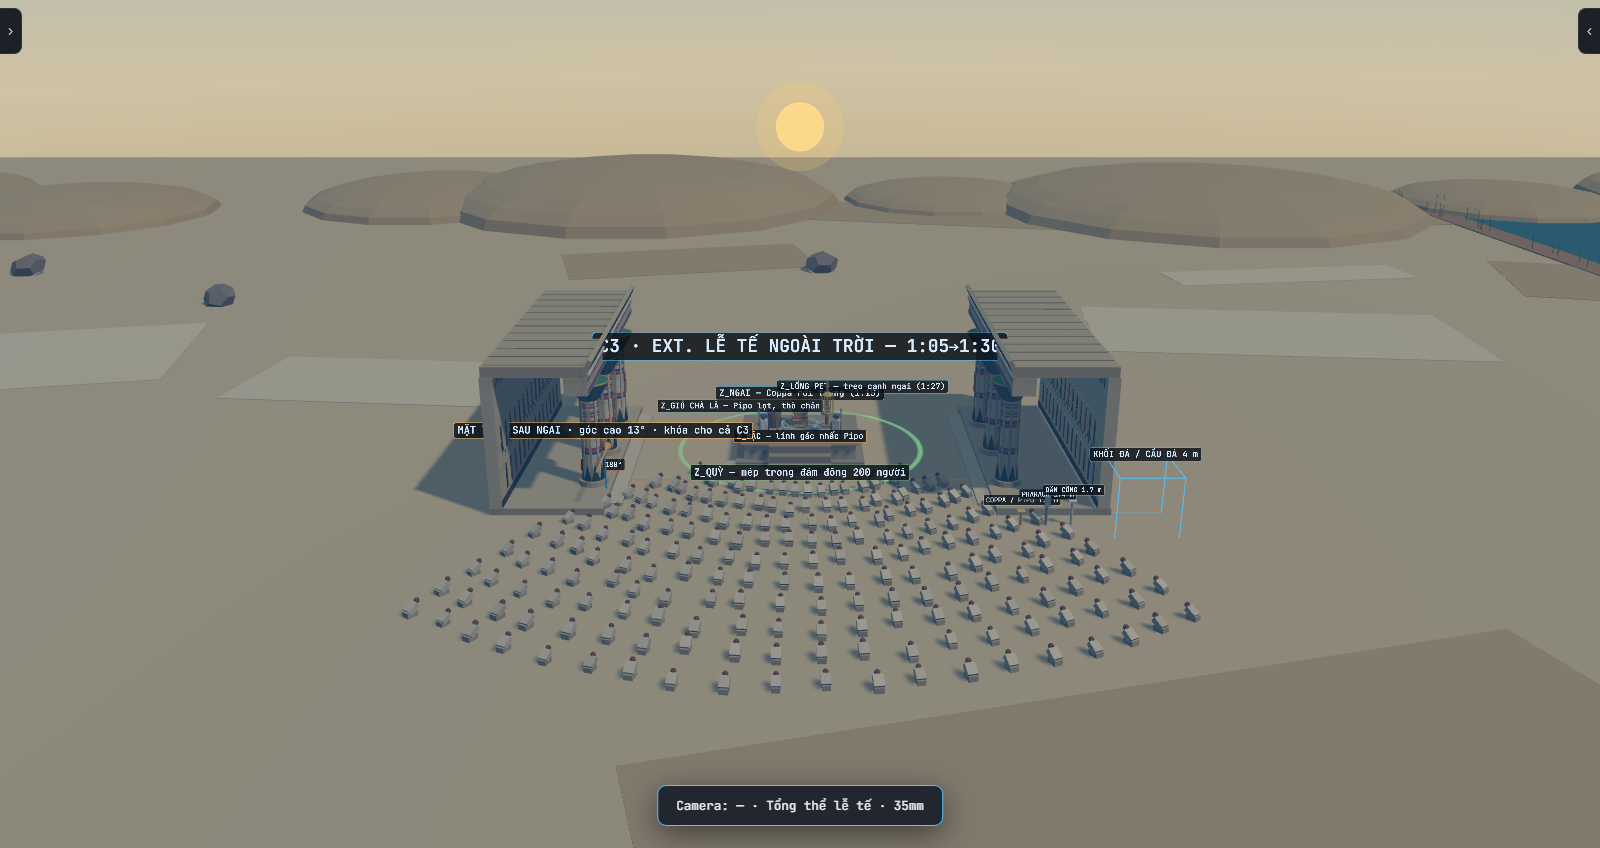
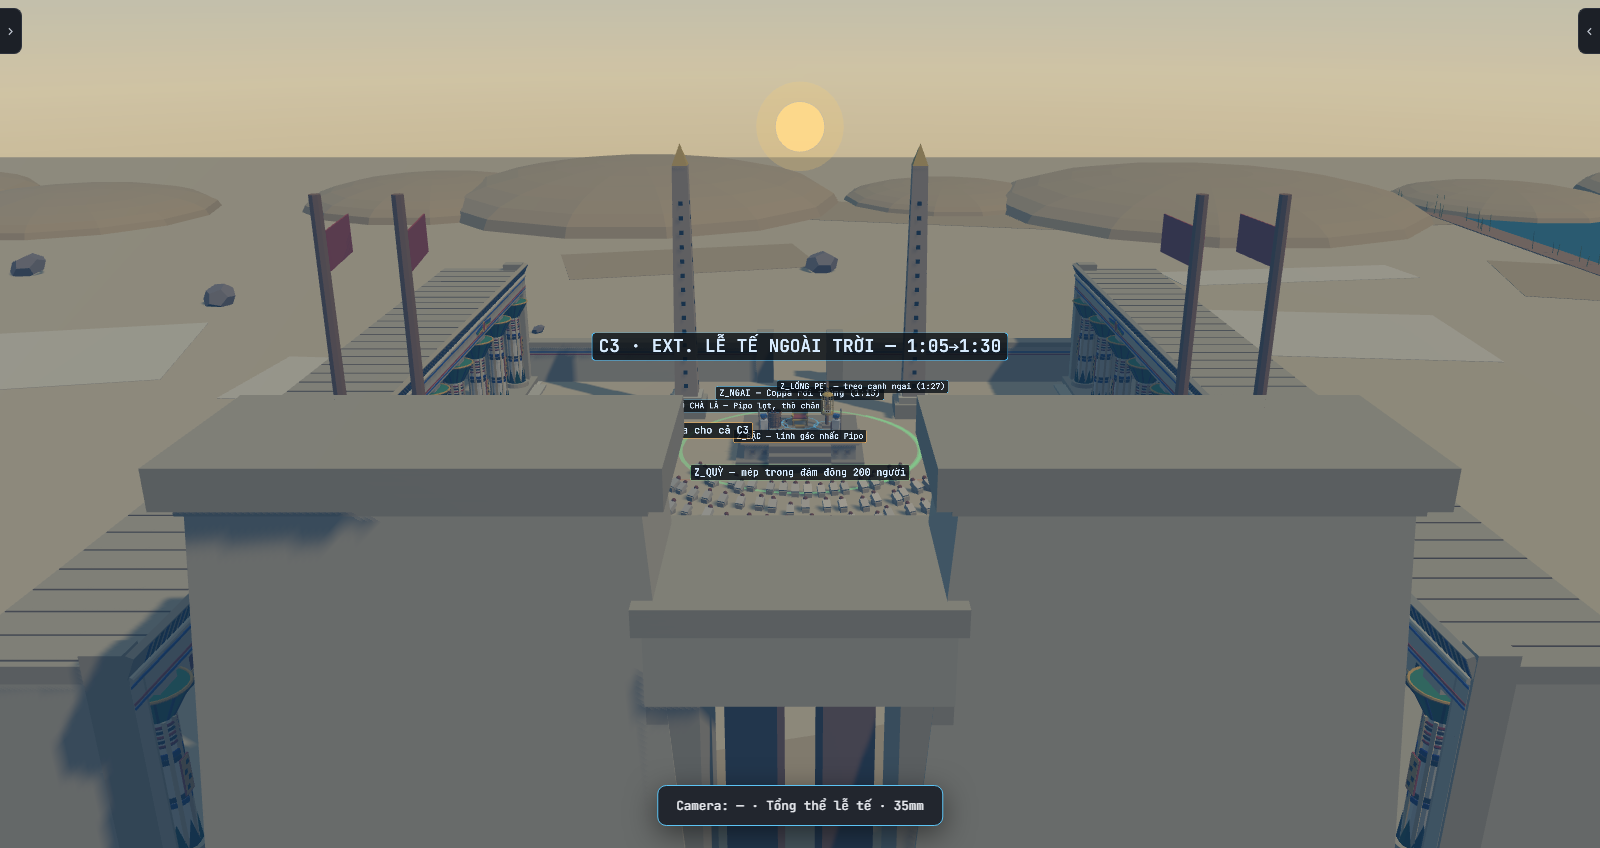
C3: san den khep kin - 2 hanh lang 11 cot 64 m bit dau, cong thap pylon, 2 obelisk kep mat troi, tuong thap sau san

diff --git a/jenny-pixel-studio.html b/jenny-pixel-studio.html
@@ -3119,119 +3119,179 @@ function instParts(geo,items,defColor,basic){
 const PT_Y0=.5, PT_SHAFT=5.6, PT_CAP=1.3;            // nền 0.5 · thân 5.6 · đầu cột 1.3
 const PT_TOP=PT_Y0+.35+PT_SHAFT+PT_CAP+.35;          // mặt khối đỡ = chân dầm (8.1 m)
 function papyrusColumn(){
+  // mỗi loại chi tiết lặp gom thành 1 InstancedMesh → ~13 lệnh vẽ/cột (hành lang 11 cột vẫn nhẹ)
   const c=new THREE.Group();
   const y0=PT_Y0, ys=y0+.35, yc=ys+PT_SHAFT;
-  // chân cột: trống đá tròn thấp
   const base=cyl(.98,1.02,.35,PT.stone2,20);base.position.y=y0+.175;c.add(base);
-  // thân: bó thân cói — lõi thon + 8 sống dọc
   const core=cyl(.56,.66,PT_SHAFT,PT.cream,16);core.position.y=ys+PT_SHAFT/2;c.add(core);
   const ribs=[];for(let k=0;k<8;k++){const a=k/8*Math.PI*2;ribs.push({p:[Math.cos(a)*.6,ys+PT_SHAFT/2,Math.sin(a)*.6],r:[0,-a,0],c:k%2?PT.cream:PT.stone});}
   c.add(instParts(new THREE.BoxGeometry(.16,PT_SHAFT,.16),ribs,PT.cream));
-  // bẹ lá nhọn ôm chân thân (nét đặc trưng cột papyrus), sơn xanh lá / xanh lam
   const sep=[];for(let k=0;k<8;k++){const a=(k+.5)/8*Math.PI*2;sep.push({p:[Math.cos(a)*.7,ys+.6,Math.sin(a)*.7],r:[0,-a+Math.PI/2,0],s:[1,1,.28],c:k%2?PT.green:PT.blue});}
   c.add(instParts(new THREE.ConeGeometry(.3,1.2,4),sep,PT.green));
-  // dải màu buộc bó cói: 2 dải giữa thân + 5 vòng dưới đầu cột
-  [[ys+2.0,PT.blue],[ys+2.25,PT.red],[ys+3.9,PT.red],[ys+4.15,PT.blue]].forEach(([y,col])=>{const b=cyl(.67,.67,.2,col,18);b.position.y=y;c.add(b);});
-  [PT.red,PT.blue,PT.ochre,PT.blue,PT.red].forEach((col,k)=>{const t=torus3(.6,.06,col,18);t.position.y=yc-.22-k*.2;c.add(t);});
-  // ô cartouche hướng ra sân (+X): khung vàng viền đỏ + chữ tượng hình
+  c.add(instParts(new THREE.CylinderGeometry(.67,.67,.2,18),
+    [[ys+2.0,PT.blue],[ys+2.25,PT.red],[ys+3.9,PT.red],[ys+4.15,PT.blue]].map(([y,col])=>({p:[0,y,0],c:col})),PT.blue));
+  c.add(instParts(new THREE.TorusGeometry(.6,.06,6,18),
+    [PT.red,PT.blue,PT.ochre,PT.blue,PT.red].map((col,k)=>({p:[0,yc-.22-k*.2,0],r:[Math.PI/2,0,0],c:col})),PT.red));
   const cart=new THREE.Group();cart.position.set(.69,ys+3.05,0);
-  const cf=box(.06,1.5,.56,PT.ochre);cart.add(cf);
+  cart.add(box(.06,1.5,.56,PT.ochre));
   const cr=box(.07,1.56,.62,PT.red);cr.position.x=-.01;cart.add(cr);
-  const gl=[];for(let k=0;k<4;k++)gl.push({p:[.04,.5-k*.33,(k%2?.1:-.1)],c:PT.dark});
-  cart.add(instParts(new THREE.BoxGeometry(.03,.18,.18),gl,PT.dark));
+  cart.add(instParts(new THREE.BoxGeometry(.03,.18,.18),[0,1,2,3].map(k=>({p:[.04,.5-k*.33,(k%2?.1:-.1)],c:PT.dark})),PT.dark));
   c.add(cart);
-  // ĐẦU CỘT papyrus NỞ LOE (hình chuông): xanh lá, gân sơn xanh lam/đỏ, vành vàng
   const bell=cyl(1.38,.6,PT_CAP,PT.green,20);bell.position.y=yc+PT_CAP/2;c.add(bell);
-  // gân sơn nghiêng theo độ loe của chuông
-  const veinG=new THREE.Group();
-  for(let k=0;k<12;k++){
-    const a=k/12*Math.PI*2;
-    const rib=box(.07,PT_CAP*1.08,.1,k%2?PT.blue:PT.red);
-    const arm=new THREE.Group();arm.rotation.y=-a;
-    rib.position.set(.99,0,0);rib.rotation.z=-Math.atan2(.78,PT_CAP);arm.add(rib);
-    arm.position.y=yc+PT_CAP/2;veinG.add(arm);
-  }
-  c.add(veinG);
+  const tilt=Math.atan2(.78,PT_CAP);                   // gân sơn nghiêng theo độ loe của chuông
+  c.add(instParts(new THREE.BoxGeometry(.07,PT_CAP*1.08,.1),
+    Array.from({length:12},(_,k)=>{const a=k/12*Math.PI*2;return{p:[.99*Math.cos(a),yc+PT_CAP/2,.99*Math.sin(a)],r:[0,-a,-tilt],c:k%2?PT.blue:PT.red};}),PT.blue));
   const rim=torus3(1.36,.07,PT.ochre,26);rim.position.y=yc+PT_CAP-.02;c.add(rim);
-  // khối đỡ vuông (abacus) — dầm gác lên đây
   const ab=box(1.3,.35,1.3,PT.stone);ab.position.y=yc+PT_CAP+.175;c.add(ab);
   return c;
 }
+// Hành lang cột chạy DÀI SUỐT một bên sân: 11 cột cách 6 m, dài 64 m, BỊT KÍN HAI ĐẦU.
 function buildColumnRow(){
   const g=new THREE.Group();
-  const Zs=[-6,0,6],L=20;
+  const N=11,SP=6,L=(N-1)*SP+4;
+  const Zs=Array.from({length:N},(_,k)=>(k-(N-1)/2)*SP);
   const sub=label=>{const s2=new THREE.Group();s2.userData.partLabel=label;g.add(s2);return s2;};
   const R=rnd(307);
+  const AH=1.2, ay=PT_TOP, ry0=ay+AH, RX0=-5.9, RX1=.76, RW=RX1-RX0, WX=-5.6;
 
-  // 1. NỀN hành lang (stylobate) + bậc xuống sân
   const base=sub('Nền hành lang + bậc xuống sân');
   base.add(bx(7.4,PT_Y0,L+1,PT.stone2,-2.4,0,0));
   base.add(bx(1.0,PT_Y0*.5,L-2,PT.stone,1.8,0,0));
 
-  // 2. BA CỘT papyrus
-  Zs.forEach((z,k)=>{const c=sub('Cột papyrus '+(k+1)+' (sơn màu)');const col=papyrusColumn();c.add(col);c.position.z=z;});
+  const cols=sub('Hàng '+N+' cột papyrus (sơn màu)');
+  Zs.forEach((z,k)=>{const c=papyrusColumn();c.position.z=z;c.userData.partLabel='Cột papyrus '+(k+1);cols.add(c);});
 
-  // 3. DẦM ĐÁ nối đầu cột + dải sơn + ĐĨA MẶT TRỜI CÓ CÁNH ở giữa, mặt hướng ra sân
   const arch=sub('Dầm đá + đĩa mặt trời có cánh');
-  const AH=1.2, ay=PT_TOP;
   arch.add(bx(1.5,AH,L+1,PT.stone,0,ay,0));
   [[ay+.2,PT.blue],[ay+.36,PT.red],[ay+AH-.16,PT.blue]].forEach(([y,col])=>{const st=box(.04,.1,L+1,col);st.position.set(.77,y,0);arch.add(st);});
-  const sun=new THREE.Group();sun.position.set(.8,ay+AH*.55,0);
-  const disc=gmesh(new THREE.CylinderGeometry(.34,.34,.08,20),PT.red);disc.rotation.z=Math.PI/2;sun.add(disc);
-  const discRim=torus3(.36,.05,PT.ochre,20);discRim.rotation.set(0,Math.PI/2,0);sun.add(discRim);
-  [-1,1].forEach(sd=>{
-    for(let k=0;k<3;k++){
-      const w=box(.05,.14,1.9-k*.35,[PT.blue,PT.green,PT.ochre][k]);
-      w.position.set(0,.14-k*.14,sd*(1.25-k*.1));w.rotation.x=sd*.08;sun.add(w);
-    }
-    const ur=cone(.07,.34,PT.ochre,6);ur.position.set(.02,-.1,sd*.42);sun.add(ur);   // rắn uraeus hai bên đĩa
+  // đĩa mặt trời có cánh lặp mỗi 3 nhịp cột
+  [-(SP*3),0,SP*3].forEach(zc=>{
+    const sun=new THREE.Group();sun.position.set(.8,ay+AH*.55,zc);
+    const disc=gmesh(new THREE.CylinderGeometry(.34,.34,.08,20),PT.red);disc.rotation.z=Math.PI/2;sun.add(disc);
+    const dr=torus3(.36,.05,PT.ochre,20);dr.rotation.set(0,Math.PI/2,0);sun.add(dr);
+    [-1,1].forEach(sd=>{for(let k=0;k<3;k++){const w=box(.05,.14,1.9-k*.35,[PT.blue,PT.green,PT.ochre][k]);w.position.set(0,.14-k*.14,sd*(1.25-k*.1));w.rotation.x=sd*.08;sun.add(w);}
+      const ur=cone(.07,.34,PT.ochre,6);ur.position.set(.02,-.1,sd*.42);sun.add(ur);});
+    arch.add(sun);
   });
-  arch.add(sun);
 
-  // 4. GỜ CORNICE LÕM kiểu Ai Cập: gờ tròn (torus) + mái hắt nghiêng ra, sơn sọc lá dọc
   const corn=sub('Gờ cornice lõm (sọc lá)');
-  const torus=cyl(.14,.14,L+1,PT.stone,10);torus.rotation.x=Math.PI/2;torus.position.set(.78,ay+AH+.12,0);corn.add(torus);
-  const lip=new THREE.Group();lip.position.set(.6,ay+AH+.24,0);lip.rotation.z=-.42;
+  const tor=cyl(.14,.14,L+1,PT.stone,10);tor.rotation.x=Math.PI/2;tor.position.set(.78,ry0+.12,0);corn.add(tor);
+  const lip=new THREE.Group();lip.position.set(.6,ry0+.24,0);lip.rotation.z=-.42;
   lip.add(bx(.3,.95,L+1.2,PT.stone2,0,0,0));
   const leaf=[];for(let k=0;k<Math.round(L*2.4);k++)leaf.push({p:[.16,.48,-L/2-.4+k/2.4],c:[PT.blue,PT.red,PT.green][k%3]});
   lip.add(instParts(new THREE.BoxGeometry(.02,.8,.22),leaf,PT.blue));
   corn.add(lip);
 
-  // 5. MÁI ĐÁ PHẲNG: tấm lát từ dầm vào tường sau; TRẦN sơn xanh rắc SAO VÀNG (nhìn từ dưới lên)
   const roof=sub('Mái đá phẳng + trần sao');
-  const RX0=-5.9,RX1=.76,RW=RX1-RX0,ry0=ay+AH;
   roof.add(bx(RW,.7,L+1,PT.stone2,(RX0+RX1)/2,ry0,0));
-  const slabs=[];for(let k=0;k<11;k++)slabs.push({p:[(RX0+RX1)/2,ry0+.71,-L/2+(k+.5)*(L+1)/11],c:k%2?PT.stone3:PT.stone2});
-  roof.add(instParts(new THREE.BoxGeometry(RW-.1,.03,.08),slabs,PT.stone3));   // ron giữa các tấm
+  const nSlab=Math.round(L/1.8);
+  roof.add(instParts(new THREE.BoxGeometry(RW-.1,.03,.08),Array.from({length:nSlab},(_,k)=>({p:[(RX0+RX1)/2,ry0+.71,-L/2+(k+.5)*(L+1)/nSlab],c:PT.stone3})),PT.stone3));
   const ceil=new THREE.Mesh(new THREE.PlaneGeometry(RW-1.6,L+.6),new THREE.MeshBasicMaterial({color:'#24468e',side:THREE.DoubleSide}));
   ceil.rotation.x=Math.PI/2;ceil.position.set((RX0+RX1)/2-.4,ry0-.02,0);roof.add(ceil);
-  const stars=[];for(let k=0;k<70;k++)stars.push({p:[RX0+.9+R()*(RW-2.4),ry0-.035,-L/2+.4+R()*(L-.4)],r:[0,R()*3,0],c:PT.ochre});
+  const stars=[];for(let k=0;k<Math.round(L*3.5);k++)stars.push({p:[RX0+.9+R()*(RW-2.4),ry0-.035,-L/2+.4+R()*(L-.4)],r:[0,R()*3,0],c:PT.ochre});
   roof.add(instParts(new THREE.BoxGeometry(.22,.01,.22),stars,PT.ochre,true));
-  roof.add(instParts(new THREE.BoxGeometry(.22,.01,.22),stars.map(t=>({p:t.p,r:[0,(t.r[1]||0)+.785,0],c:PT.ochre})),PT.ochre,true));   // hai ô vuông chéo = sao 8 cánh   // hai ô vuông chéo = sao 8 cánh
+  roof.add(instParts(new THREE.BoxGeometry(.22,.01,.22),stars.map(t=>({p:t.p,r:[0,t.r[1]+.785,0],c:PT.ochre})),PT.ochre,true));
 
-  // 6. TƯỜNG SAU (phía ngoài) + PHÙ ĐIÊU sơn màu mặt hướng vào hành lang
   const wall=sub('Tường sau + phù điêu');
-  const WX=-5.6,WH=ry0-PT_Y0;
+  const WH=ry0-PT_Y0;
   wall.add(bx(.8,WH,L+1,PT.stone,WX,PT_Y0,0));
-  // chân tường sơn đen-vàng, diềm "kheker" trên đỉnh
   wall.add(bx(.04,.5,L+1,PT.dark,WX+.42,PT_Y0,0));
-  const kh=[];for(let k=0;k<Math.round(L*2);k++)kh.push({p:[WX+.43,ry0-.55,-L/2+.25+k/2],c:k%2?PT.ochre:PT.blue});
-  wall.add(instParts(new THREE.BoxGeometry(.03,.6,.2),kh,PT.ochre));
-  // hai tầng phù điêu: đoàn người dâng lễ (dáng đứng cao gầy) + hàng chữ tượng hình
-  const fig=[];
-  for(let row=0;row<2;row++)for(let k=0;k<14;k++){
-    const z=-L/2+1.2+k*1.35+(row?.6:0), y=PT_Y0+1.5+row*2.7;
-    fig.push({p:[WX+.43,y,z],s:[1,1,1],c:[PT.red,PT.blue,PT.green,PT.ochre][(k+row)%4]});
-  }
+  wall.add(instParts(new THREE.BoxGeometry(.03,.6,.2),Array.from({length:Math.round(L*2)},(_,k)=>({p:[WX+.43,ry0-.55,-L/2+.25+k/2],c:k%2?PT.ochre:PT.blue})),PT.ochre));
+  const fig=[];const nFig=Math.round(L/1.35)-1;
+  for(let row=0;row<2;row++)for(let k=0;k<nFig;k++)fig.push({p:[WX+.43,PT_Y0+1.5+row*2.7,-L/2+1.2+k*1.35+(row?.6:0)],c:[PT.red,PT.blue,PT.green,PT.ochre][(k+row)%4]});
   wall.add(instParts(new THREE.BoxGeometry(.03,1.4,.34),fig,PT.red));
-  const heads=fig.map(f=>({p:[f.p[0],f.p[1]+.86,f.p[2]],c:PT.dark}));
-  wall.add(instParts(new THREE.BoxGeometry(.03,.26,.22),heads,PT.dark));
-  const hier=[];for(let k=0;k<44;k++)hier.push({p:[WX+.43,PT_Y0+3.3+(k%2)*.3,-L/2+.6+k*.43],c:PT.dark});
-  wall.add(instParts(new THREE.BoxGeometry(.03,.18,.18),hier,PT.dark));
-  // vạch tầng phù điêu
+  wall.add(instParts(new THREE.BoxGeometry(.03,.26,.22),fig.map(f=>({p:[f.p[0],f.p[1]+.86,f.p[2]],c:PT.dark})),PT.dark));
+  wall.add(instParts(new THREE.BoxGeometry(.03,.18,.18),Array.from({length:Math.round(L*2.2)},(_,k)=>({p:[WX+.43,PT_Y0+3.3+(k%2)*.3,-L/2+.6+k*.43],c:PT.dark})),PT.dark));
   [PT_Y0+.72,PT_Y0+2.6,PT_Y0+4.2,PT_Y0+5.4].forEach(y=>{const ln=box(.03,.06,L+1,PT.ochre);ln.position.set(WX+.43,y,0);wall.add(ln);});
 
+  // TƯỜNG BỊT HAI ĐẦU: hết cảnh "nhà chờ xe buýt" hở hai đầu
+  const ends=sub('Tường bịt hai đầu hành lang');
+  [-1,1].forEach(sd=>{
+    ends.add(bx(RW,WH,.8,PT.stone,(RX0+RX1)/2,PT_Y0,sd*(L/2+.1)));
+    const pil=box(1.5,WH+AH,1.1,PT.stone2);pil.position.set(0,PT_Y0+(WH+AH)/2,sd*(L/2+.1));ends.add(pil);   // trụ đầu hồi
+  });
   g.userData.h=ry0+.9;
+  return g;
+}
+
+/* ── hộp vát (thân tháp pylon / obelisk): đáy wb×db, đỉnh wt×dt, cao h ── */
+function frustumBox(wb,db,wt,dt,h,c){
+  const geo=new THREE.BoxGeometry(wb,h,db);
+  const pos=geo.attributes.position;
+  for(let k=0;k<pos.count;k++){if(pos.getY(k)>0){pos.setX(k,pos.getX(k)*wt/wb);pos.setZ(k,pos.getZ(k)*dt/db);}}
+  geo.computeVertexNormals();
+  const m=new THREE.Mesh(geo,mat(c));m.castShadow=true;m.receiveShadow=true;m.position.y=h/2;return m;
+}
+
+/* ── CỔNG THÁP PYLON: hai tháp vát 18 m + cổng giữa + cột cờ đuôi nheo; mặt chính hướng vào sân (-Z) ── */
+function buildC3Pylon(){
+  const g=new THREE.Group();
+  const sub=label=>{const s2=new THREE.Group();s2.userData.partLabel=label;g.add(s2);return s2;};
+  const H=18;
+  [-1,1].forEach(sd=>{
+    const t=sub('Tháp pylon '+(sd<0?'trái':'phải'));
+    const tw=frustumBox(16,7,13,5.4,H,PT.stone);tw.position.set(sd*11,H/2,0);t.add(tw);
+    const tor=box(13.4,.3,5.8,PT.stone2);tor.position.set(sd*11,H+.15,0);t.add(tor);
+    const cap=box(14.4,1.3,6.6,PT.stone2);cap.position.set(sd*11,H+.95,0);t.add(cap);
+    const cb=[];for(let k=0;k<36;k++)cb.push({p:[sd*11-7+k*.4,H+.95,-3.32],c:[PT.blue,PT.red,PT.green][k%3]});
+    t.add(instParts(new THREE.BoxGeometry(.2,1.1,.02),cb,PT.blue));
+    // phù điêu lớn: Pharaoh vung chùy trước thần — khối màu cách điệu
+    const rel=[
+      {p:[sd*11-2.2,7,-3.55],s:[1,1,1],c:PT.blue},{p:[sd*11+2.4,6.2,-3.55],s:[.8,.8,1],c:PT.red},
+      {p:[sd*11-2.2,10.2,-3.55],s:[.5,.35,1],c:PT.ochre},{p:[sd*11+2.4,8.6,-3.55],s:[.45,.3,1],c:PT.green}];
+    t.add(instParts(new THREE.BoxGeometry(2.6,6,.05),rel,PT.blue));
+    // rãnh cột cờ + cột cờ gỗ tuyết tùng + đuôi nheo đỏ
+    [-4.2,-1.6].forEach(dx=>{
+      const x=sd*11+(sd<0?dx:-dx);
+      const gr=box(.9,H-2,.2,PT.stone3);gr.position.set(x,(H-2)/2+.3,-3.3);t.add(gr);
+      const pole=cyl(.2,.28,H+8,EG.wood,8);pole.position.set(x,(H+8)/2,-3.9);t.add(pole);
+      const fl=box(.05,1.3,3.2,PT.red);fl.position.set(x,H+6.2,-3.9-1.6);fl.rotation.y=.12;t.add(fl);
+    });
+  });
+  const gate=sub('Cổng giữa + đĩa mặt trời');
+  [-1,1].forEach(sd=>{const j=box(1.6,12,6,PT.stone2);j.position.set(sd*3.8,6,0);gate.add(j);});
+  const lin=box(9.2,2.4,6.4,PT.stone);lin.position.set(0,13.2,0);gate.add(lin);
+  const lcap=box(9.8,.9,6.8,PT.stone2);lcap.position.set(0,14.85,0);gate.add(lcap);
+  const leafL=box(2.9,11,.3,EG.wood2);leafL.position.set(-1.5,5.5,.4);leafL.rotation.y=-.9;gate.add(leafL);   // cánh cổng gỗ mở
+  const leafR=box(2.9,11,.3,EG.wood2);leafR.position.set(1.5,5.5,.4);leafR.rotation.y=.9;gate.add(leafR);
+  const disc=gmesh(new THREE.CylinderGeometry(.9,.9,.1,24),PT.red);disc.rotation.x=Math.PI/2;disc.position.set(0,13.3,-3.26);gate.add(disc);
+  [-1,1].forEach(sd=>{const w=box(3.2,.35,.08,PT.blue);w.position.set(sd*2.2,13.35,-3.25);gate.add(w);});
+  g.userData.h=H+8;
+  return g;
+}
+
+/* ── HAI COT OBELISK 20 m sau bục: kẹp mặt trời ở giữa, không che; chóp mạ vàng ── */
+function buildC3Obelisks(){
+  const g=new THREE.Group();
+  [-1,1].forEach(sd=>{
+    const o=new THREE.Group();o.userData.partLabel='Obelisk '+(sd<0?'trái':'phải');o.position.x=sd*9;
+    o.add(bx(3,1.2,3,PT.stone2,0,0,0));
+    o.add(bx(2.4,.5,2.4,PT.stone,0,1.2,0));
+    const sh=frustumBox(1.8,1.8,1.15,1.15,18,'#cdb58f');sh.position.y=1.7+9;o.add(sh);
+    const tip=cone(.82,1.6,EG.gold,4);tip.rotation.y=Math.PI/4;tip.position.y=1.7+18+.8;o.add(tip);
+    const gl=[];for(let side=0;side<4;side++)for(let k=0;k<14;k++){
+      const h=2.6+k*1.1, half=.9-(.9-.575)*(h-1.7)/18;
+      const a=side*Math.PI/2;gl.push({p:[Math.sin(a)*(half+.01),h,Math.cos(a)*(half+.01)],r:[0,a,0],c:PT.dark});}
+    o.add(instParts(new THREE.BoxGeometry(.32,.32,.02),gl,PT.dark));
+    g.add(o);
+  });
+  g.userData.h=21.3;
+  return g;
+}
+
+/* ── TƯỜNG THẤP 3.2 m khép phía sau sân, khe giữa đúng trục mặt trời (không che nắng ngược) ── */
+function buildC3BackWall(){
+  const g=new THREE.Group();
+  const H=3.2,W=62,gap=6;
+  [-1,1].forEach(sd=>{
+    const len=(W-gap)/2, cx=sd*(gap/2+len/2);
+    g.add(bx(len,H,1,PT.stone,cx,0,0));
+    const cap=box(len+.2,.4,1.4,PT.stone2);cap.position.set(cx,H+.2,0);g.add(cap);
+    const bd=box(len,.14,.04,PT.blue);bd.position.set(cx,H-.5,.52);g.add(bd);
+    const bd2=box(len,.1,.04,PT.red);bd2.position.set(cx,H-.72,.52);g.add(bd2);
+    const pil=box(1.4,H+1.2,1.6,PT.stone2);pil.position.set(sd*gap/2,(H+1.2)/2,0);g.add(pil);   // trụ hai bên khe
+  });
+  g.userData.h=H+1.2;
   return g;
 }
 
@@ -5020,6 +5080,9 @@ regPart('c3_throne','Ngai vàng (ghế 1.2 m)',buildThrone);
 regPart('c3_basket','Giỏ chà là 1.2 m',buildBasket);
 regPart('c3_cagepost','Cột + lồng chim vàng PET',buildCagePost);
 regPart('c3_columns','Hành lang cột có mái (portico)',buildColumnRow);
+regPart('c3_pylon','Cổng tháp pylon + cột cờ',buildC3Pylon);
+regPart('c3_obelisks','Hai obelisk kẹp mặt trời',buildC3Obelisks);
+regPart('c3_backwall','Tường thấp khép sau sân',buildC3BackWall);
 regPart('c3_crowd','Đám đông quỳ (200)',buildCrowdKneel);
 regPart('c3_guards','2 lính gác cầm giáo',buildGuards);
 regPart('c3_sun','Khóa hướng mặt trời C3',buildSunLock);
@@ -5092,8 +5155,11 @@ const C3_PARTS=[
   {k:'c3_throne',   p:[-45,1.5,-1.2]},
   {k:'c3_basket',   p:[-46.9,1.5,-0.6], l:'Giỏ chà là (trái ngai)'},
   {k:'c3_cagepost', p:[-43.0,1.5,-0.6], l:'Lồng PET (phải ngai)'},
-  {k:'c3_columns',  p:[-59,0,2], l:'Hành lang cột — bên trái sân'},
-  {k:'c3_columns',  p:[-31,0,2], ry:Math.PI, l:'Hành lang cột — bên phải sân'},
+  {k:'c3_columns',  p:[-69,0,16], l:'Hành lang cột — bên trái sân (64 m)'},
+  {k:'c3_columns',  p:[-21,0,16], ry:Math.PI, l:'Hành lang cột — bên phải sân (64 m)'},
+  {k:'c3_pylon',    p:[-45,0,51]},
+  {k:'c3_obelisks', p:[-45,0,-8]},
+  {k:'c3_backwall', p:[-45,0,-17]},
   {k:'c3_guards',   p:[-45,1.5,2.2]},
   {k:'c3_crowd',    p:[-45,0,0]},
   {k:'c3_sun',      p:[-45,0,0]},
